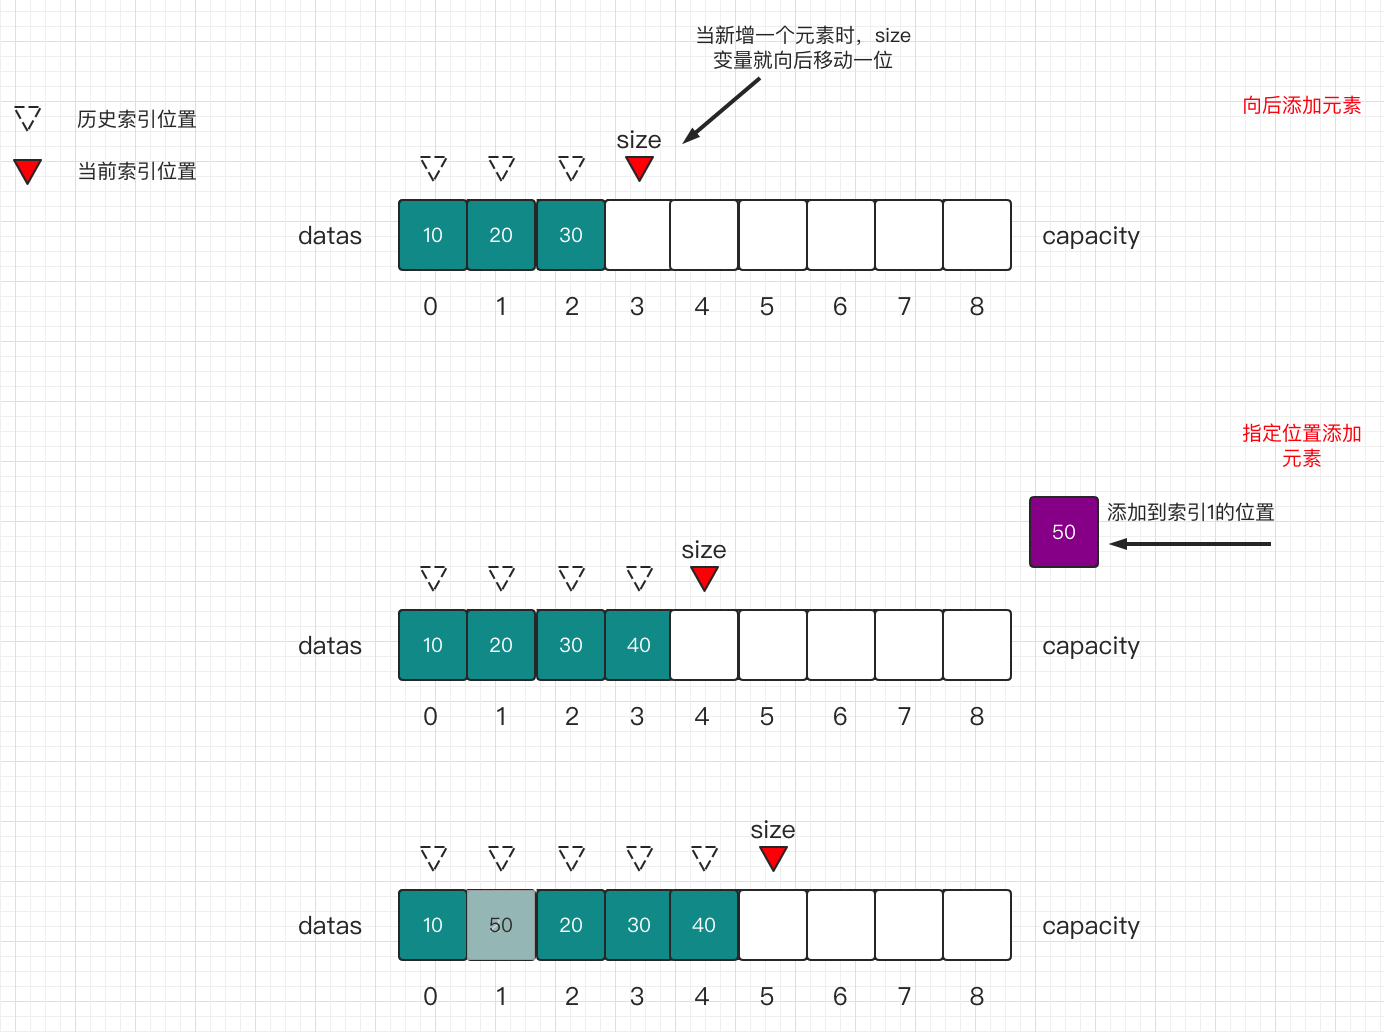
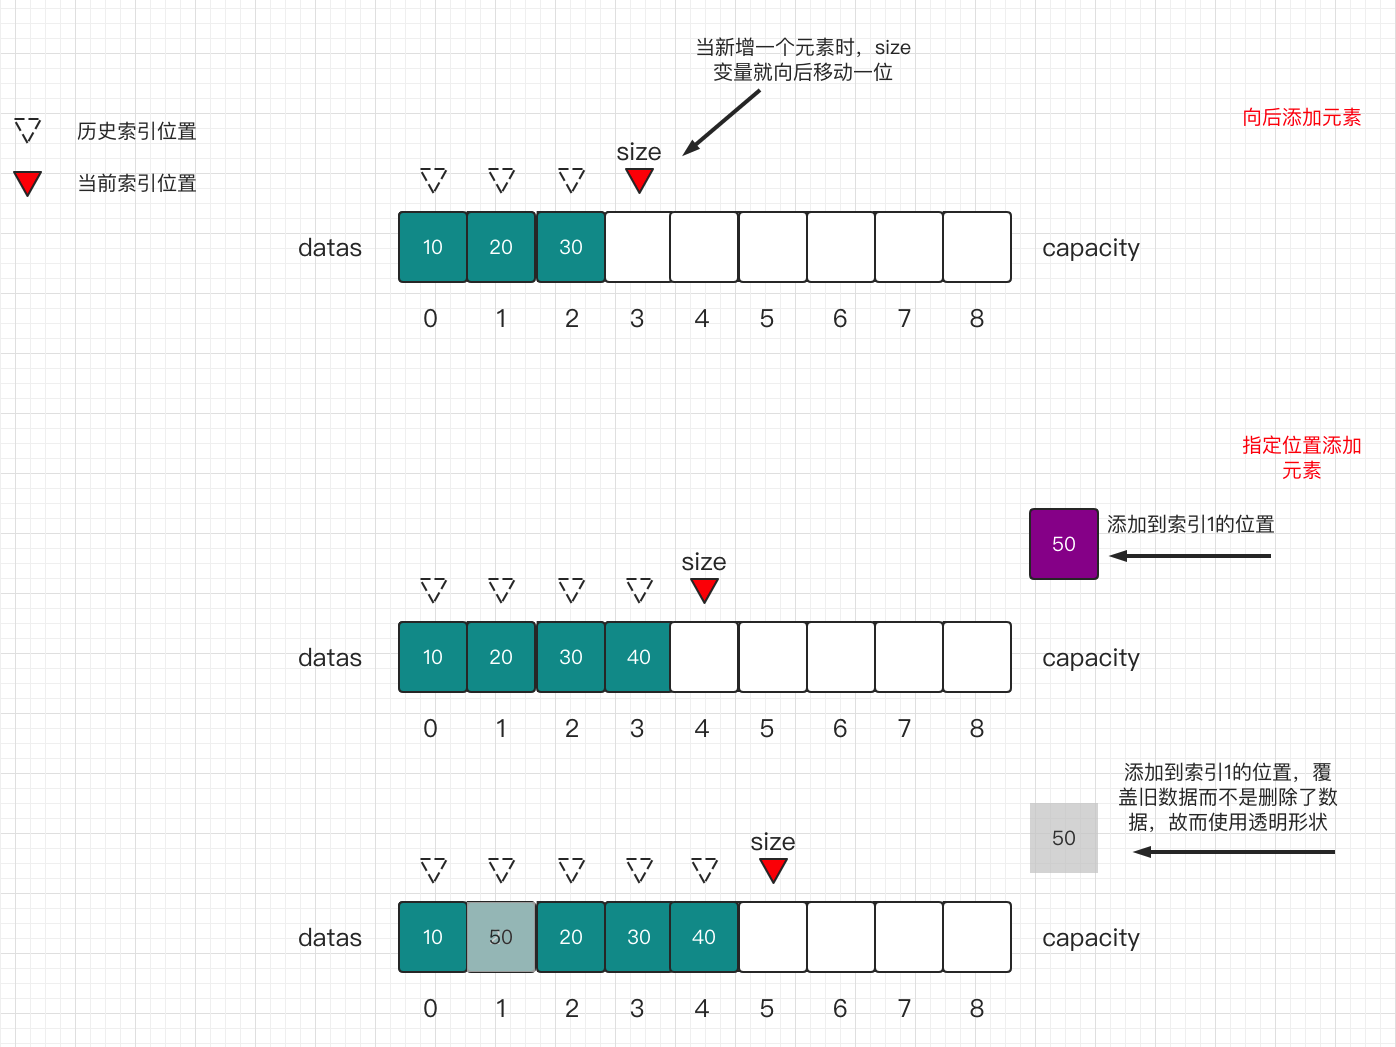
数组添加元素

diff --git a/DataStructure/数组/数组.md b/DataStructure/数组/数组.md
@@ -103,3 +103,19 @@ public class Array {
 如果我们的字段被设置为public那么在外部这些字段都可以被修改, 比如把datas从新指向或者置为空这就会出现问题, 我们只需要对外暴露相关的行为接口方法即可。
 
 当前数组的类型被固定为int类型, 数组容量也是固定的。不过随着下面的设计这些问题都可以得到解决。
+
+
+##### 添加元素到数组
+
+***Q: 如何向一个数组中添加元素? 需要注意什么问题?***   
+向我们数组结构中添加元素, 默认向最后一个位置进行添加, 也可以向数组最头部添加元素, 但是说白了就是通过指定位置进行元素的添加。  
+在添加元素的时候我们需要注意下面几点:  
+  1. 当添加一个元素后, 需要维护数组中实际元素个数;
+  2. 指定索引位置添加索引不能小于0并且数组还有添加元素的容量(毕竟现在我们还是一个静态数组, 容量是有限的);
+  3. 指定索引位置添加, 先使用过程2判断后, 元素从最尾开始向后移动一位, 到要添加位置结束, 将新数据覆盖旧的数据;
+
+
+具体, 可以参考下图[1-3数组添加元素设计]
+
+![数组添加元素设计](https://github.com/basebase/document/blob/master/DataStructure/%E6%95%B0%E7%BB%84/%E5%9B%BE%E7%89%87/%E6%95%B0%E7%BB%84%E6%B7%BB%E5%8A%A0%E5%85%83%E7%B4%A0%E8%AE%BE%E8%AE%A1.png?raw=true)
+[1-3数组添加元素设计]
